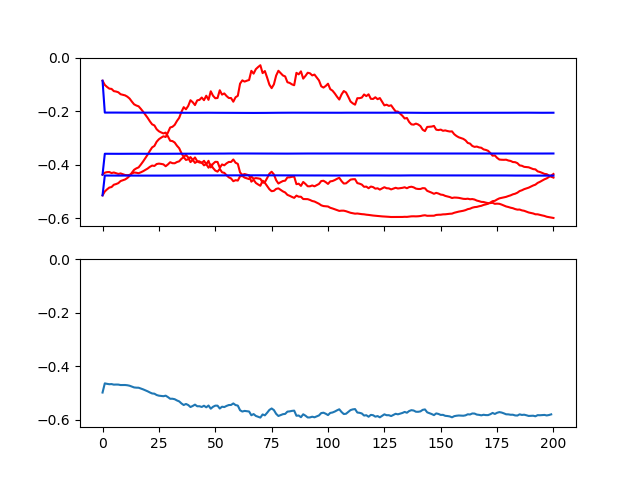
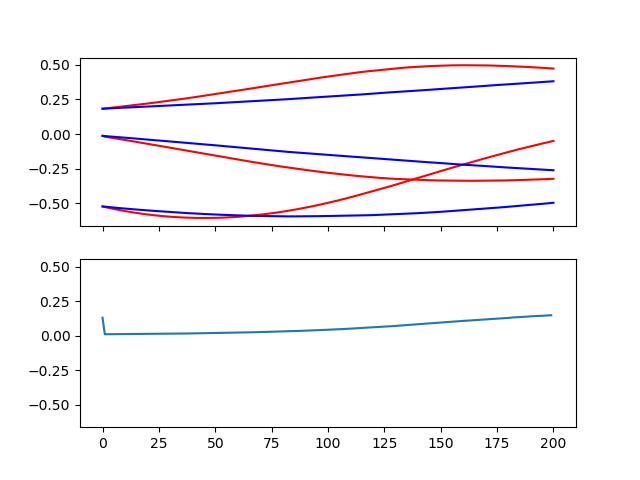
working time evo code and an example of lochsmidt echo

diff --git a/scratch.py b/scratch.py
@@ -3,11 +3,12 @@ import numpy as np
 from xmps.spin import spins
 from xmps.iMPS import iMPS
 from scipy.linalg import expm
-from qmps.represent import FullStateTensor, FullEnvironment
-from qmps.tools import environment_to_unitary, tensor_to_unitary, unitary_to_tensor
+from qmps.represent import FullStateTensor, FullEnvironment, get_env_exact, State
+from qmps.tools import environment_to_unitary, tensor_to_unitary, unitary_to_tensor, environment_from_unitary
 from qmps.time_evolve import MPSTimeEvolve
 import matplotlib.pyplot as plt
 from xmps.spin import U4
+from qmps.ground_state import NonSparseFullEnergyOptimizer
 import cirq
 
 Sx, Sy, Sz = spins(0.5)
@@ -17,64 +18,124 @@ Sx, Sy, Sz = 2*Sx, 2*Sy, 2*Sz
 As = [iMPS().random(2, 2).mixed() for _ in range(3)]
 
 def test_time_evolve():
-    for AL, AR, C in [As[0]]:
-        J, g = -1, 0.5
-        H = np.array([[J, g / 2, g / 2, 0],
-                      [g / 2, -J, 0, g / 2],
-                      [g / 2, 0, -J, g / 2],
-                      [0, g / 2, g / 2, J]])
+    initial_params = np.random.rand(15)
 
-        T = np.linspace(0, 1, 200)
-        dt = T[1] - T[0]
-        evs = []
-        es = []
+    unitary = U4(initial_params)
+    A = iMPS([unitary_to_tensor(unitary)]).left_canonicalise()
+    environment = get_env_exact(unitary)
 
-        ################ CIRQ BIT ######################
+    J, g = -1, 0.5
+    H = np.array([[J, g / 2, g / 2, 0],
+                  [g / 2, -J, 0, g / 2],
+                  [g / 2, 0, -J, g / 2],
+                  [0, g / 2, g / 2, J]])
 
-        counter = 0
-        bloch_sphere_results = []
+    T = np.linspace(0, 1, 200)
+    dt = T[1] - T[0]
+    evs = []
+    es = []
 
-        U = FullStateTensor(tensor_to_unitary(AL.data[0]))
-        V = FullEnvironment(environment_to_unitary(C))
-        # hamiltonian = FullStateTensor(expm(-1j * H * dt))
-        hamiltonian = FullStateTensor(np.identity(4))
-        evolver = MPSTimeEvolve(u_initial=U, hamiltonian=hamiltonian, v_initial=V, settings={
-            'method': 'Powell',
-            'maxiter': 100,
-            'verbose': True,
-            'tol': 1e-8
-        })
-        # initial classical value
-        A = AL
-        evs.append(iMPS([A.data[0]]).Es([Sx, Sy, Sz]))
+    ################ CIRQ BIT ######################
 
-        # initial unitary value
+    counter = 0
+    bloch_sphere_results = []
+
+    U = FullStateTensor(unitary)
+    V = FullEnvironment(environment)
+    hamiltonian = FullStateTensor(expm(-1j * H * dt * 2))
+    # hamiltonian = FullStateTensor(np.identity(4))
+    evolver = MPSTimeEvolve(u_initial=U, hamiltonian=hamiltonian, v_initial=V, initial_params= initial_params,
+                            settings={'method': 'Nelder-Mead',
+                                      'maxiter': 1000,
+                                      'verbose': True,
+                                      'tol': 1e-5
+                                       })
+    # initial classical value
+    evs.append(iMPS([A.data[0]]).Es([Sx, Sy, Sz]))
+
+    # initial unitary value
+    results, qubits = evolver.simulate_state()
+    bloch_sphere = results.bloch_vector_of(qubits[1])
+    bloch_sphere_results.append(bloch_sphere)
+
+    for _ in T:
+        print(counter)
+        dA = A.dA_dt([H]) * dt
+        es.append(A.e)
+        A = (A + dA).left_canonicalise()
+        evs.append(A.Es([Sx, Sy, Sz]))
+        '''
+        Below is the cirq time evolution. Gate is made using scipy.expm(H) * dt which is put into a Tensor, and 
+        and this is the hamiltonian.
+        '''
+        evolver.evolve_single_step()
         results, qubits = evolver.simulate_state()
         bloch_sphere = results.bloch_vector_of(qubits[1])
         bloch_sphere_results.append(bloch_sphere)
+        counter += 1
 
-        for _ in T:
-            print(counter)
-            dA = A.dA_dt([H]) * dt
-            es.append(A.e)
-            A = (A + dA).left_canonicalise()
-            evs.append(A.Es([Sx, Sy, Sz]))
-            '''
-            Below is the cirq time evolution. Gate is made using scipy.expm(H) * dt which is put into a Tensor, and 
-            and this is the hamiltonian.
-            '''
-            evolver.evolve_single_step()
-            results, qubits = evolver.simulate_state()
-            bloch_sphere = results.bloch_vector_of(qubits[1])
-            bloch_sphere_results.append(bloch_sphere)
-            counter += 1
+    fig, ax = plt.subplots(2, 1, sharex=True, sharey=True)
+    ax[0].plot(np.array(evs), c='r')
+    ax[0].plot(np.array(bloch_sphere_results), c='b')
+    ax[1].plot(es)
+    plt.show()
+    fig.savefig('xy.png')
+    return np.array(evs), np.array(bloch_sphere_results)
 
-        fig, ax = plt.subplots(2, 1, sharex=True, sharey=True)
-        ax[0].plot(np.array(evs), c='r')
-        ax[0].plot(np.array(bloch_sphere_results), c='b')
-        ax[1].plot(es)
-        plt.show()
-        fig.savefig('FullEvaluatelongTimeEvo2.png')
-        return np.array(evs), np.array(bloch_sphere_results)
+def losmicht_echo():
+    J, g = -1, 1.5
+    H = np.array([[J, g / 2, g / 2, 0],
+                  [g / 2, -J, 0, g / 2],
+                  [g / 2, 0, -J, g / 2],
+                  [0, g / 2, g / 2, J]])
 
-analytic, unitary = test_time_evolve()
+    opt = NonSparseFullEnergyOptimizer(H)
+    opt.optimize()
+    optimized_result = opt.u
+
+    g = 0.5
+    H = np.array([[J, g / 2, g / 2, 0],
+                  [g / 2, -J, 0, g / 2],
+                   [g / 2, 0, -J, g / 2],
+                  [0, g / 2, g / 2, J]])
+
+    T = np.linspace(0, 32, 8000)
+    dt = T[1] - T[0]
+    hamiltonian = FullStateTensor(expm(-1j * H * dt))
+
+    U = optimized_result
+    environment = get_env_exact(cirq.unitary(optimized_result))
+    V = FullEnvironment(environment)
+
+    evolver = MPSTimeEvolve(u_initial=U, hamiltonian=hamiltonian, v_initial=V,
+                            settings={'method': 'Nelder-Mead',
+                                      'maxiter': 1000,
+                                      'verbose': True,
+                                      'tol': 1e-5
+                                       })
+
+    qubits = cirq.LineQubit.range(3)
+    original_circuit = cirq.Circuit.from_ops([State(U, V, 1).on(*qubits)])
+    sim = cirq.Simulator()
+    original_state = sim.simulate(original_circuit).final_simulator_state.state_vector
+    counter = 0
+    results = []
+    for _ in T:
+        print(counter)
+        evolver.evolve_single_step()
+        result, _ = evolver.simulate_state()
+        overlap = -np.log(np.abs(original_state.conj().T@result.final_simulator_state.state_vector)**2)
+        results.append(overlap)
+        counter += 1
+
+    plt.plot(range(len(results)), results)
+    plt.savefig('stupid_long_loschmidt_echos')
+    plt.show()
+    return results
+
+'''
+
+pi/2J * sqrt((g_init + g_fin) / ((g_init - g_fin)(1-gfin^2)))
+
+'''
+results = losmicht_echo()

diff --git a/qmps/ground_state.py b/qmps/ground_state.py
@@ -2,7 +2,7 @@ import cirq
 from .represent import State, FullStateTensor, FullEnvironment, get_env
 from .represent import get_env_exact, full_tomography_env_objective_function
 from .represent import HorizontalSwapOptimizer, ShallowStateTensor, ShallowEnvironment
-from .tools import environment_from_unitary, Optimizer, to_real_vector, from_real_vector
+from .tools import environment_from_unitary, Optimizer, to_real_vector, from_real_vector, FullOptimizer
 from .tools import split_2s
 from numpy import array, real, kron, eye
 from numpy.linalg import qr
@@ -14,7 +14,7 @@ from scipy.optimize import approx_fprime
 
 from typing import Callable, List, Dict
 
-class NonSparseFullEnergyOptimizer(Optimizer):
+class NonSparseFullEnergyOptimizer(FullOptimizer):
     """NonSparseFullEnergyOptimizer
 
     NonSparse: not a low depth variational optimizer
@@ -35,8 +35,7 @@ class NonSparseFullEnergyOptimizer(Optimizer):
         u_original = FullStateTensor(U4(initial_guess))
         v_original = None
 
-        super().__init__(u_original, v_original,
-                         initial_guess=initial_guess, settings=None)
+        super().__init__(u_original, v_original, initial_guess=initial_guess)
 
     def objective_function(self, u_params):
         U = U4(u_params)

diff --git a/qmps/time_evolve.py b/qmps/time_evolve.py
@@ -10,7 +10,7 @@ from typing import Dict
 
 class MPSTimeEvolve:
     def __init__(self, u_initial: cirq.Gate, hamiltonian: cirq.Gate, v_initial: cirq.Gate = None, depth: int=0,
-                 settings=None, optimizer_settings=None,
+                 settings=None, optimizer_settings=None, initial_params = None,
                  reps=0):
         self.u = u_initial
         self.hamiltonian = hamiltonian
@@ -29,7 +29,7 @@ class MPSTimeEvolve:
         self.EnvOptimizer = None
 
         self.settings = settings
-        self.initial_guess_u = self.get_initial_params(self.u)
+        self.initial_guess_u = initial_params if initial_params else self.get_initial_params(self.u)
         self.v = v_initial
         # if v_initial:
         #     # pass
